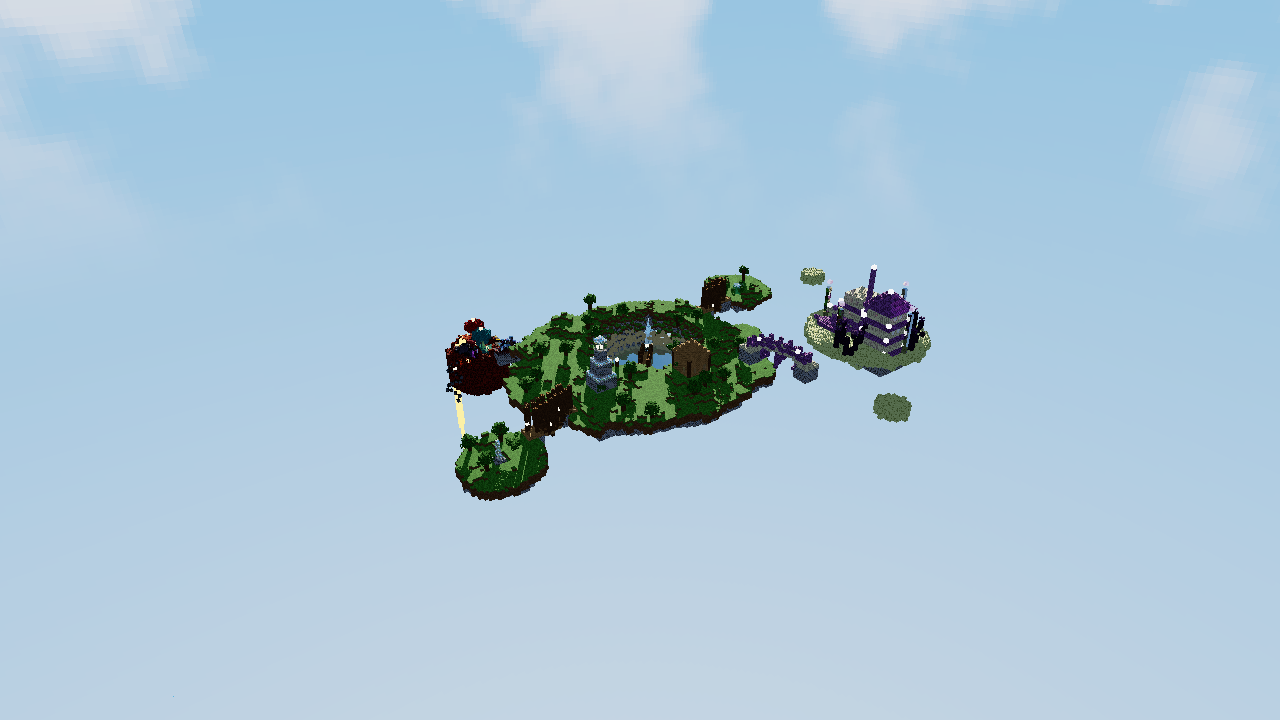
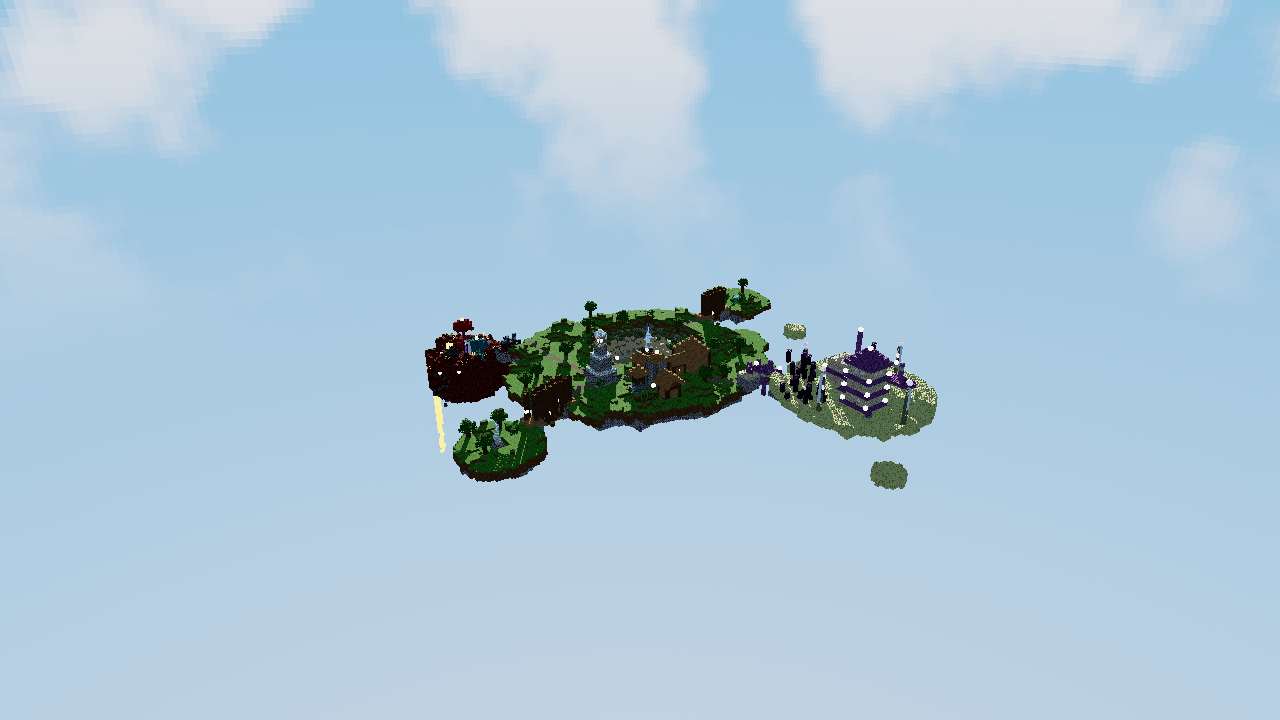
feat: recalcular el guion de camara y agregar el tramo del pueblo
Recalcula por completo el guion de --record (src/record.rs::timeline) tras
mover/agrandar el End y el Nether en la parte 1: g2/h1 (Nether de cerca) y
h2/i1 (End de cerca) tenian la camara metida en el terreno con los valores
viejos de dist_scale/pitch, verificado renderizando esos cuadros clave antes
y despues del ajuste.

Agrega un tramo nuevo "a2: pueblo" (~6s, entre la vista general y el
acercamiento al faro) que centra la camara en el pueblo nuevo de la parte 2.
Para eso, CenterTarget::Village se suma al enum existente (junto a Main/
Nether/End/Monolith) y su posicion de mundo se enhebra desde
structures::build_lighthouse_scene hasta record::Centers, igual que ya
pasaba con el monolito. Guion final: 79s (18 keyframes), dentro del rango
pedido de 75-80s. Verificado sin saltos de camara con --dump-timeline y
visualmente con una pasada completa de frames_test/ (640x360, 15fps, 1186
cuadros, borrando los cuadros viejos primero).

Rendimiento (--bench, 1280x720): 156.2ms/frame, ~12% MAS RAPIDO que el
cierre de la sesion anterior (178.2ms) pese a agregar el pueblo completo --
menos arboles base en la principal y el End mucho mas cerca en altura de la
principal (antes +32, ahora +9) le ahorran trabajo al DDA. No hizo falta
optimizacion adicional (detalle en BENCHMARK.md, no versionado).

Actualiza README.md (tabla de materiales a 46, seccion "Pueblo", galeria,
guion sugerido, numeros de rendimiento) y record.md (duracion/bitrate). Las
[…]

diff --git a/src/record.rs b/src/record.rs
@@ -22,6 +22,7 @@ pub enum CenterTarget {
     Nether,
     End,
     Monolith,
+    Village,
 }
 
 /// Puntos de mundo donde puede centrarse la orbita, resueltos por el llamador
@@ -32,6 +33,7 @@ pub struct Centers {
     pub nether: Vec3,
     pub end: Vec3,
     pub monolith: Vec3,
+    pub village: Vec3,
 }
 
 pub struct Keyframe {
@@ -79,11 +81,13 @@ fn resolve_center(centers: Centers, target: CenterTarget) -> Vec3 {
         CenterTarget::Nether => centers.nether,
         CenterTarget::End => centers.end,
         CenterTarget::Monolith => centers.monolith,
+        CenterTarget::Village => centers.village,
     }
 }
 
 const CAP_GENERAL: &str = "VISTA GENERAL - DIORAMA DE 5 ISLAS";
 const CAP_MAIN: &str = "ISLA PRINCIPAL: FARO Y CASITA";
+const CAP_VILLAGE: &str = "PUEBLO: CASAS, TORRE, PARCELAS Y POZO";
 const CAP_LAKE: &str = "LAGO: REFRACCION IOR 1.33 Y REFLEJO FRESNEL";
 const CAP_MONOLITH: &str = "REFLEJO EN EL MONOLITO - IRON BLOCK Y CIELO";
 const CAP_NM_OFF: &str = "NORMAL MAPS OFF - LUZ RASANTE EN STONE BRICKS";
@@ -96,58 +100,69 @@ const CAP_SEED_B: &str = "REGENERACION - SEMILLA B";
 const CAP_SEED_C: &str = "REGENERACION - SEMILLA C";
 const CAP_FINAL: &str = "DIORAMA PROCEDURAL COMPLETO";
 
-/// Guion de 73s, un keyframe por limite de tramo (17 en total, ver
-/// comentarios inline con los segundos exactos que pidio el usuario). Cada
-/// tramo mueve como maximo un par de cosas a la vez (camara, o dia/noche, o
-/// normal maps, o semilla) para que quede claro en pantalla que esta
-/// cambiando; la unica excepcion son las traslaciones largas entre islas
-/// (f, g1, h1), donde camara + dia/noche + centro cambian juntos porque asi
-/// se ve como un solo movimiento de camara continuo, no como una serie de
-/// cortes.
+/// Guion de 79s, un keyframe por limite de tramo (18 en total, ver
+/// comentarios inline con los segundos exactos). Cada tramo mueve como
+/// maximo un par de cosas a la vez (camara, o dia/noche, o normal maps, o
+/// semilla) para que quede claro en pantalla que esta cambiando; la unica
+/// excepcion son las traslaciones largas entre islas/el pueblo (a2, f, g1,
+/// h1), donde camara + centro (+ a veces dia/noche) cambian juntos porque
+/// asi se ve como un solo movimiento de camara continuo, no como una serie
+/// de cortes.
+///
+/// Recalculado despues de mover/agrandar el End y el Nether (ver
+/// `structures.rs`): el End ahora flota apenas mas arriba que la principal
+/// (antes offset.y +32, ahora +9) y mas cerca (gap 10 en vez de 16), y tanto
+/// el Nether (radio 11->15) como el End (radio 16->22) crecieron. Los tramos
+/// g2/h1/h2/i1 (los que miran de cerca esas dos islas) necesitan mas
+/// distancia y menos pitch que antes para no terminar con la camara metida
+/// en el terreno -- afinado a mano con `--render --center nether|end` a
+/// varias combinaciones hasta que el encuadre mostraba la isla entera.
 pub fn timeline(seed_a: u32, seed_b: u32, seed_c: u32) -> Vec<Keyframe> {
     vec![
         // a) 0-8s: vista general de dia, rotando.
         Keyframe { t: 0.0, yaw_deg: 0.0, pitch_deg: 22.0, dist_scale: 6.5, center: CenterTarget::Main, night: 0.0, normalmaps: 1.0, seed_offset: seed_a, segment: "a: general", caption: CAP_GENERAL },
-        // b) 8-15s (7s): zoom a la isla principal (faro/casita), llegando al lago.
-        Keyframe { t: 8.0, yaw_deg: 70.0, pitch_deg: 20.0, dist_scale: 6.5, center: CenterTarget::Main, night: 0.0, normalmaps: 1.0, seed_offset: seed_a, segment: "b: principal", caption: CAP_MAIN },
-        // c) 15-21s (6s): orbita lenta de cerca sobre el lago.
-        Keyframe { t: 15.0, yaw_deg: 110.0, pitch_deg: 14.0, dist_scale: 1.0, center: CenterTarget::Main, night: 0.0, normalmaps: 1.0, seed_offset: seed_a, segment: "c: lago", caption: CAP_LAKE },
-        // d) 21-25s (4s): vuelo hasta el monolito y de vuelta hacia el faro.
-        Keyframe { t: 21.0, yaw_deg: 150.0, pitch_deg: 14.0, dist_scale: 1.0, center: CenterTarget::Main, night: 0.0, normalmaps: 1.0, seed_offset: seed_a, segment: "d: monolito (ida)", caption: CAP_MONOLITH },
-        Keyframe { t: 23.0, yaw_deg: 175.0, pitch_deg: 16.0, dist_scale: 0.55, center: CenterTarget::Monolith, night: 0.0, normalmaps: 1.0, seed_offset: seed_a, segment: "d: monolito (vuelta)", caption: CAP_MONOLITH },
-        // e) 25-32s: camara TOTALMENTE QUIETA (mismo yaw/pitch/dist/centro en
+        // a2) 8-14s (6s, NUEVO): recorrido del pueblo -- casas, parcelas,
+        // pozo y caminos -- entre la vista general y el acercamiento al faro.
+        Keyframe { t: 8.0, yaw_deg: 100.0, pitch_deg: 25.0, dist_scale: 0.9, center: CenterTarget::Village, night: 0.0, normalmaps: 1.0, seed_offset: seed_a, segment: "a2: pueblo", caption: CAP_VILLAGE },
+        // b) 14-21s (7s): zoom a la isla principal (faro/casita), llegando al lago.
+        Keyframe { t: 14.0, yaw_deg: 70.0, pitch_deg: 20.0, dist_scale: 6.5, center: CenterTarget::Main, night: 0.0, normalmaps: 1.0, seed_offset: seed_a, segment: "b: principal", caption: CAP_MAIN },
+        // c) 21-27s (6s): orbita lenta de cerca sobre el lago.
+        Keyframe { t: 21.0, yaw_deg: 110.0, pitch_deg: 14.0, dist_scale: 1.0, center: CenterTarget::Main, night: 0.0, normalmaps: 1.0, seed_offset: seed_a, segment: "c: lago", caption: CAP_LAKE },
+        // d) 27-31s (4s): vuelo hasta el monolito y de vuelta hacia el faro.
+        Keyframe { t: 27.0, yaw_deg: 150.0, pitch_deg: 14.0, dist_scale: 1.0, center: CenterTarget::Main, night: 0.0, normalmaps: 1.0, seed_offset: seed_a, segment: "d: monolito (ida)", caption: CAP_MONOLITH },
+        Keyframe { t: 29.0, yaw_deg: 175.0, pitch_deg: 16.0, dist_scale: 0.55, center: CenterTarget::Monolith, night: 0.0, normalmaps: 1.0, seed_offset: seed_a, segment: "d: monolito (vuelta)", caption: CAP_MONOLITH },
+        // e) 31-38s: camara TOTALMENTE QUIETA (mismo yaw/pitch/dist/centro en
         // los 4 keyframes que siguen), solo cambia el blend de normal maps.
-        Keyframe { t: 25.0, yaw_deg: 200.0, pitch_deg: 10.0, dist_scale: 0.85, center: CenterTarget::Main, night: 0.0, normalmaps: 0.0, seed_offset: seed_a, segment: "e: nm off (quieto)", caption: CAP_NM_OFF },
-        Keyframe { t: 28.0, yaw_deg: 200.0, pitch_deg: 10.0, dist_scale: 0.85, center: CenterTarget::Main, night: 0.0, normalmaps: 0.0, seed_offset: seed_a, segment: "e: nm fundido (quieto)", caption: CAP_NM_FADE },
-        Keyframe { t: 29.0, yaw_deg: 200.0, pitch_deg: 10.0, dist_scale: 0.85, center: CenterTarget::Main, night: 0.0, normalmaps: 1.0, seed_offset: seed_a, segment: "e: nm on (quieto)", caption: CAP_NM_ON },
-        // f) 32-38s (6s): noche, vista general (se aleja y cae la noche).
-        Keyframe { t: 32.0, yaw_deg: 200.0, pitch_deg: 10.0, dist_scale: 0.85, center: CenterTarget::Main, night: 0.0, normalmaps: 1.0, seed_offset: seed_a, segment: "f: a noche general", caption: CAP_NIGHT },
-        // g) 38-48s (10s): Nether -- g1 acercandose (4s), g2 de cerca (6s).
+        Keyframe { t: 31.0, yaw_deg: 200.0, pitch_deg: 10.0, dist_scale: 0.85, center: CenterTarget::Main, night: 0.0, normalmaps: 0.0, seed_offset: seed_a, segment: "e: nm off (quieto)", caption: CAP_NM_OFF },
+        Keyframe { t: 34.0, yaw_deg: 200.0, pitch_deg: 10.0, dist_scale: 0.85, center: CenterTarget::Main, night: 0.0, normalmaps: 0.0, seed_offset: seed_a, segment: "e: nm fundido (quieto)", caption: CAP_NM_FADE },
+        Keyframe { t: 35.0, yaw_deg: 200.0, pitch_deg: 10.0, dist_scale: 0.85, center: CenterTarget::Main, night: 0.0, normalmaps: 1.0, seed_offset: seed_a, segment: "e: nm on (quieto)", caption: CAP_NM_ON },
+        // f) 38-44s (6s): noche, vista general (se aleja y cae la noche).
+        Keyframe { t: 38.0, yaw_deg: 200.0, pitch_deg: 10.0, dist_scale: 0.85, center: CenterTarget::Main, night: 0.0, normalmaps: 1.0, seed_offset: seed_a, segment: "f: a noche general", caption: CAP_NIGHT },
+        // g) 44-54s (10s): Nether -- g1 acercandose (4s), g2 de cerca (6s).
         // Nota sobre `dist_scale` de aca en adelante: se multiplica por el
         // radio de la isla PRINCIPAL (42), no por el de la isla que mira la
-        // camara -- Nether (radio 11, a ~61 del centro principal) y End
-        // (radio 16, a ~74) son mucho mas chicas Y ademas tienen relieve
-        // marcado (el ridged noise del Nether sube/baja ~10 bloques sobre
-        // su propia base, las torres del End suben otros ~20). Un pitch
-        // bajo (el que usa el lago, isla mucho mas playa) deja al ojo de la
-        // camara CASI A LA MISMA altura que esos picos/torres -- de ahi el
-        // cuadro con la camara metida dentro del terreno. Pitch alto (~45)
-        // le da altura de sobra sin alejarse tanto como para perder el
-        // detalle, y la distancia se mantiene bien por debajo de la que
-        // haria falta para volver a rozar la isla principal por el otro lado.
-        Keyframe { t: 38.0, yaw_deg: 230.0, pitch_deg: 18.0, dist_scale: 6.0, center: CenterTarget::Main, night: 1.0, normalmaps: 1.0, seed_offset: seed_a, segment: "g1: hacia el nether", caption: CAP_NETHER },
-        Keyframe { t: 42.0, yaw_deg: 250.0, pitch_deg: 38.0, dist_scale: 0.62, center: CenterTarget::Nether, night: 1.0, normalmaps: 1.0, seed_offset: seed_a, segment: "g2: nether de cerca", caption: CAP_NETHER },
-        // h) 48-58s (10s): End -- h1 acercandose (4s), h2 de cerca (6s).
-        Keyframe { t: 48.0, yaw_deg: 290.0, pitch_deg: 38.0, dist_scale: 0.62, center: CenterTarget::Nether, night: 1.0, normalmaps: 1.0, seed_offset: seed_a, segment: "h1: hacia el end", caption: CAP_END },
-        Keyframe { t: 52.0, yaw_deg: 320.0, pitch_deg: 42.0, dist_scale: 0.70, center: CenterTarget::End, night: 1.0, normalmaps: 1.0, seed_offset: seed_a, segment: "h2: end de cerca", caption: CAP_END },
-        // i) 58-68s: regeneracion -- 5s con la semilla B, 5s con la semilla C
+        // camara -- Nether (radio 15, a ~65 del centro principal) y End
+        // (radio 22, a ~74) son mas chicas Y ademas tienen relieve marcado
+        // (el ridged noise del Nether sube/baja ~10 bloques sobre su propia
+        // base, las torres del End suben otros ~20). Un pitch bajo (el que
+        // usa el lago, isla mucho mas playa) deja al ojo de la camara CASI A
+        // LA MISMA altura que esos picos/torres -- de ahi el cuadro con la
+        // camara metida dentro del terreno. Pitch ~32-35 con distancia
+        // bastante mayor que el radio de esa isla le da altura y espacio de
+        // sobra sin alejarse tanto como para perder el detalle.
+        Keyframe { t: 44.0, yaw_deg: 230.0, pitch_deg: 18.0, dist_scale: 6.0, center: CenterTarget::Main, night: 1.0, normalmaps: 1.0, seed_offset: seed_a, segment: "g1: hacia el nether", caption: CAP_NETHER },
+        Keyframe { t: 48.0, yaw_deg: 250.0, pitch_deg: 32.0, dist_scale: 1.0, center: CenterTarget::Nether, night: 1.0, normalmaps: 1.0, seed_offset: seed_a, segment: "g2: nether de cerca", caption: CAP_NETHER },
+        // h) 54-64s (10s): End -- h1 acercandose (4s), h2 de cerca (6s).
+        Keyframe { t: 54.0, yaw_deg: 290.0, pitch_deg: 32.0, dist_scale: 1.0, center: CenterTarget::Nether, night: 1.0, normalmaps: 1.0, seed_offset: seed_a, segment: "h1: hacia el end", caption: CAP_END },
+        Keyframe { t: 58.0, yaw_deg: 320.0, pitch_deg: 35.0, dist_scale: 1.1, center: CenterTarget::End, night: 1.0, normalmaps: 1.0, seed_offset: seed_a, segment: "h2: end de cerca", caption: CAP_END },
+        // i) 64-74s: regeneracion -- 5s con la semilla B, 5s con la semilla C
         // (el corte de semilla es instantaneo, la camara sigue moviendose
         // parejo de la vista del End a la vista general de ambos lados del corte).
-        Keyframe { t: 58.0, yaw_deg: 350.0, pitch_deg: 42.0, dist_scale: 0.70, center: CenterTarget::End, night: 1.0, normalmaps: 1.0, seed_offset: seed_b, segment: "i1: semilla B", caption: CAP_SEED_B },
-        Keyframe { t: 63.0, yaw_deg: 380.0, pitch_deg: 22.0, dist_scale: 6.5, center: CenterTarget::Main, night: 0.0, normalmaps: 1.0, seed_offset: seed_c, segment: "i2: semilla C", caption: CAP_SEED_C },
-        // j) 68-73s (5s): toma final alejandose.
-        Keyframe { t: 68.0, yaw_deg: 420.0, pitch_deg: 24.0, dist_scale: 7.0, center: CenterTarget::Main, night: 0.0, normalmaps: 1.0, seed_offset: seed_c, segment: "j: final", caption: CAP_FINAL },
-        Keyframe { t: 73.0, yaw_deg: 450.0, pitch_deg: 26.0, dist_scale: 8.5, center: CenterTarget::Main, night: 0.0, normalmaps: 1.0, seed_offset: seed_c, segment: "j: final", caption: CAP_FINAL },
+        Keyframe { t: 64.0, yaw_deg: 350.0, pitch_deg: 35.0, dist_scale: 1.1, center: CenterTarget::End, night: 1.0, normalmaps: 1.0, seed_offset: seed_b, segment: "i1: semilla B", caption: CAP_SEED_B },
+        Keyframe { t: 69.0, yaw_deg: 380.0, pitch_deg: 22.0, dist_scale: 6.5, center: CenterTarget::Main, night: 0.0, normalmaps: 1.0, seed_offset: seed_c, segment: "i2: semilla C", caption: CAP_SEED_C },
+        // j) 74-79s (5s): toma final alejandose.
+        Keyframe { t: 74.0, yaw_deg: 420.0, pitch_deg: 24.0, dist_scale: 7.0, center: CenterTarget::Main, night: 0.0, normalmaps: 1.0, seed_offset: seed_c, segment: "j: final", caption: CAP_FINAL },
+        Keyframe { t: 79.0, yaw_deg: 450.0, pitch_deg: 26.0, dist_scale: 8.5, center: CenterTarget::Main, night: 0.0, normalmaps: 1.0, seed_offset: seed_c, segment: "j: final", caption: CAP_FINAL },
     ]
 }
 

diff --git a/src/main.rs b/src/main.rs
@@ -50,16 +50,17 @@ struct WorldData {
     nether_center: Vec3,
     end_center: Vec3,
     monolith_center: Vec3,
+    village_center: Vec3,
     gen_ms: f64,
 }
 
 fn build_world_data(seed: u32) -> WorldData {
     let t0 = std::time::Instant::now();
-    let SceneIslands { islands, main_center, main_radius, nether_center, end_center, monolith_center } = build_lighthouse_scene(seed);
+    let SceneIslands { islands, main_center, main_radius, nether_center, end_center, monolith_center, village_center } = build_lighthouse_scene(seed);
     let materials = material::build_material_table(seed);
     let lights = build_light_grid(&islands, &materials, 8.0);
     let gen_ms = t0.elapsed().as_secs_f64() * 1000.0;
-    WorldData { islands, materials, lights, main_center, main_radius, nether_center, end_center, monolith_center, gen_ms }
+    WorldData { islands, materials, lights, main_center, main_radius, nether_center, end_center, monolith_center, village_center, gen_ms }
 }
 
 /// La distancia maxima de zoom tiene que alcanzar para que las 5 islas
@@ -71,6 +72,7 @@ fn build_camera(args: &Args, wd: &WorldData) -> Camera {
         "nether" => wd.nether_center,
         "end" => wd.end_center,
         "monolith" => wd.monolith_center,
+        "village" => wd.village_center,
         _ => wd.main_center,
     };
     Camera::new(center, args.yaw, args.pitch, args.dist, wd.main_radius * 0.6, wd.main_radius * 9.0, 50.0)
@@ -216,7 +218,7 @@ fn render_record_frame(ctx: &RecordCtx, night_blend: f32, normalmaps_blend: f32,
 }
 
 fn centers_of(wd: &WorldData) -> record::Centers {
-    record::Centers { main: wd.main_center, nether: wd.nether_center, end: wd.end_center, monolith: wd.monolith_center }
+    record::Centers { main: wd.main_center, nether: wd.nether_center, end: wd.end_center, monolith: wd.monolith_center, village: wd.village_center }
 }
 
 /// `duration*fps` cuadros no alcanzan a incluir un cuadro exactamente EN

diff --git a/src/structures.rs b/src/structures.rs
@@ -1279,6 +1279,9 @@ pub struct SceneIslands {
     /// Isla satelite del monolito de iron_block (para encuadrarlo de cerca
     /// en `--record`, ver `record.rs`).
     pub monolith_center: Vec3,
+    /// Centro del pueblo en la isla principal (para encuadrarlo de cerca en
+    /// `--record`, igual que el monolito).
+    pub village_center: Vec3,
 }
 
 /// Construye la isla principal (el faro, el lago, la casita) y sus dos
@@ -1325,6 +1328,8 @@ pub fn build_lighthouse_scene(seed: u32) -> SceneIslands {
     // torre (centro): 3 casas y 2 parcelas intercaladas cada 60 grados, el
     // pozo mas cerca del centro en el sexto hueco.
     let village_center = polar(cx, cz, 200.0, r * 0.48);
+    let village_top_y = main.heightmap.top_at(village_center.0, village_center.1).unwrap_or(main.params.top_y);
+    let village_center_world = islands[main.index].to_world_point(Vec3::new(village_center.0 as f32, village_top_y as f32, village_center.1 as f32));
     clear_trees_near(&mut islands[main.index].world, village_center.0, village_center.1, 13);
 
     // Offsets en cartesianas (no polares): con estructuras cuadradas, dos
@@ -1520,5 +1525,5 @@ pub fn build_lighthouse_scene(seed: u32) -> SceneIslands {
     // 2-3 mini-islas de end_stone flotando alrededor de la isla principal del End.
     build_mini_end_islands(&mut islands, end_center_world, er, eseed);
 
-    SceneIslands { islands, main_center: main_center_world, main_radius: r, nether_center: nether_center_world, end_center: end_center_world, monolith_center: monolith_center_world }
+    SceneIslands { islands, main_center: main_center_world, main_radius: r, nether_center: nether_center_world, end_center: end_center_world, monolith_center: monolith_center_world, village_center: village_center_world }
 }

diff --git a/README.md b/README.md
@@ -22,10 +22,11 @@ Rust desde cero (sin librerias externas para la logica: matematica,
 texturas, ruido, PRNG, paralelismo y raytracing son todo codigo propio).
 Cinco islas flotantes generadas proceduralmente, cada una con su propio
 perfil de terreno: la isla principal (faro, lago con cascada, muelle,
-casita, dos islas satelite), una isla compacta del Nether (arboles hongo
-carmesi/distorsionado, formacion de blackstone con lava, fuegos, portal) y
-una isla del End con una ciudad de torres de purpur, unidas por puentes de
-verdad (tablero ancho, barandas, arcos o cables, linternas).
+casita, un PUEBLO con 3 casas/torre-capilla/pozo/parcelas de cultivo, dos
+islas satelite), una isla del Nether (arboles hongo carmesi/distorsionado,
+formacion de blackstone con lava, fuegos, portal) y una isla del End -- baja
+y cerca de la principal, con una ciudad de torres de purpur -- unidas por
+puentes de verdad (tablero ancho, barandas, arcos o cables, linternas).
 
 ![Vista general de las 5 islas](renders/before_after/p6_final_general_day.png)
 
@@ -80,7 +81,7 @@ normal maps on/off y el tiempo de generacion del terreno.
 ## Materiales
 
 Cada material tiene su propia textura (16x16, generada por codigo si no hay
-un `.bmp` en `assets/textures/`) y sus propios parametros de shading. 39 en
+un `.bmp` en `assets/textures/`) y sus propios parametros de shading. 46 en
 total, organizados por donde viven en la escena.
 
 ### Base (isla principal y satelites)
@@ -137,11 +138,26 @@ total, organizados por donde viven en la escena.
 | Chorus plant (tallo) | solido con nudos | morado oscuro | 0.04 / 6 | 0 | 0 | 1.0 | - |
 | Magenta glass | marco claro, centro casi transparente | magenta | 0.6 / 120 | 0.85 | 0.08 | 1.5 | - |
 
+### Pueblo (isla principal)
+
+| Material | Textura | Albedo | Specular (coef/exp) | Transparencia | Reflectividad | IOR | Emision |
+|---|---|---|---|---|---|---|---|
+| Cobblestone | piedras irregulares con mortero, normal map | gris | 0.08 / 12 | 0 | 0.02 | 1.0 | - |
+| Stone (liso) | uniforme, normal map suave | gris claro | 0.12 / 18 | 0 | 0.04 | 1.0 | - |
+| Farmland | tierra removida con surcos | marron oscuro | 0.02 / 4 | 0 | 0 | 1.0 | - |
+| Dirt path | grisaceo apisonado, a proposito distinto del marron de oak_planks | gris-tostado | 0.03 / 6 | 0 | 0 | 1.0 | - |
+| Crops | tallos con alpha cutout, puntas doradas | verde/dorado | 0.03 / 6 | 0 | 0 | 1.0 | - |
+| Lantern | marco oscuro, centro calido opaco | negro/amarillo calido | 0.15 / 20 | 0 | 0 | 1.0 | (1.0, 0.72, 0.38) x 1.9 |
+
+La cerca de las parcelas reutiliza `oak_log` en postes delgados en vez de
+un material nuevo.
+
 Normal map real (derivado por Sobel de la propia textura, o cargado desde
 `assets/textures/<nombre>_n.bmp` si existe) en: `stone_bricks`,
 `oak_planks`, `oak_log`, `iron_block`, `netherrack`, `nether_bricks`,
 `crimson_stem`, `warped_stem`, `nether_wart_block`, `warped_wart_block`,
-`blackstone`, `end_stone`, `end_stone_bricks`, `purpur`, `purpur_pillar`.
+`blackstone`, `end_stone`, `end_stone_bricks`, `purpur`, `purpur_pillar`,
+`cobblestone`, `stone`.
 El `portal` tiene un normal map propio generado aparte (no derivado del
 albedo): un remolino via atan2/seno/coseno, para que la refraccion se vea
 distorsionada en vez de plana.
@@ -212,27 +228,30 @@ End + todos sus puentes/caminos y mini-islas):
 
 | Resolucion | ms/frame | FPS equivalente |
 |---|---|---|
-| 640x360 (resolucion del pase "en movimiento" a calidad media) | 49.5 | ~20 |
-| 1280x720 | 178.2 | ~5.6 |
+| 640x360 (resolucion del pase "en movimiento" a calidad media) | 39.6 | ~25 |
+| 1280x720 | 156.2 | ~6.4 |
 
-Rotando a calidad media la ventana corre a resolucion reducida (~20 FPS
+Rotando a calidad media la ventana corre a resolucion reducida (~25 FPS
 equivalente, fluido); el pase de resolucion completa es ahora PROGRESIVO
 (ver "Refinamiento progresivo" arriba), asi que nunca bloquea de una sola
-vez aunque tarde varios cientos de ms en total. El costo subio un poco
-respecto a partes anteriores (mas islas: Nether y End compactas pero con
-mucho contenido nuevo, mas mini-islas de puentes/descanso) pero se
-mantiene fluido para rotar; no hizo falta optimizacion adicional (limite
-de luces por punto, profundidad de recursion, early exits ya estaban
-puestos desde antes). Detalle completo, incluido el desglose pasada por
-pasada del refinamiento progresivo, en `BENCHMARK.md`.
+vez aunque tarde varios cientos de ms en total. A pesar de agregar el
+pueblo completo (casas, torre, parcelas, caminos) y agrandar el End/Nether,
+el costo BAJO ~12% respecto al cierre anterior: menos arboles base en la
+principal y el End mucho mas cerca en altura de la principal (antes flotaba
+32 bloques arriba, ahora 9) le ahorran trabajo al DDA. No hizo falta
+optimizacion adicional (limite de luces por punto, profundidad de
+recursion, early exits ya estaban puestos desde antes). Detalle completo,
+incluido el desglose pasada por pasada del refinamiento progresivo, en
+`BENCHMARK.md`.
 
 ## Galeria
 
 | De dia | De noche |
 |---|---|
 | ![Vista general de dia](renders/before_after/p6_final_general_day.png) | ![Vista general de noche](renders/before_after/p6_final_general_night.png) |
-| ![Puentes de verdad](renders/before_after/p6_final_bridges.png) | ![Nether de noche](renders/before_after/p6_final_nether_night.png) |
+| ![Puentes de verdad y el pueblo](renders/before_after/p6_final_bridges.png) | ![Nether de noche](renders/before_after/p6_final_nether_night.png) |
 | ![Lago azul-turquesa con orilla](renders/before_after/p6_final_lake.png) | ![Ciudad de torres del End](renders/before_after/p6_final_end_city.png) |
+| ![El pueblo de dia](renders/before_after/part5_village_day.png) | ![El pueblo de noche, faroles encendidos](renders/before_after/part5_village_night.png) |
 
 ## Guion sugerido para el video
 
@@ -251,11 +270,19 @@ pasada del refinamiento progresivo, en `BENCHMARK.md`.
    central, escaleras diagonales, las dos torres secundarias con
    ventanas de magenta_glass), el barco de purpur y los bosquecitos de
    chorus.
-6. Tecla `4` para volver a la principal: acercarse al faro (glowstone a
-   traves del vidrio) y al lago (agua azul-turquesa con reflejo del cielo,
-   orilla de arena visible, cascada por el borde).
+6. Tecla `4` para volver a la principal: recorrer el pueblo (casas, la
+   torre-capilla, el pozo, las parcelas con canal de agua y crops, los
+   caminos), acercarse al faro (glowstone a traves del vidrio) y al lago
+   (agua azul-turquesa con reflejo del cielo, orilla de arena visible,
+   cascada por el borde).
 7. Alternar normal maps (`N`) de cerca sobre nether_bricks o stone_bricks
    para mostrar la diferencia con luz rasante.
 8. Regenerar el archipielago (`G`) un par de veces para mostrar que las 5
-   islas, sus puentes y todas sus estructuras se reconstruyen con
-   cualquier semilla.
+   islas, sus puentes, el pueblo y todas sus estructuras se reconstruyen
+   con cualquier semilla.
+
+El video grabado con `--record` (ver `record.md`) sigue este mismo recorrido
+como guion fijo de camara (`src/record.rs::timeline`, 79s): vista general,
+un tramo dedicado al pueblo (~6s, entre la vista general y el acercamiento
+al faro), faro/lago, monolito, normal maps on/off, noche, Nether de cerca,
+End de cerca, y regeneracion con 2 semillas nuevas antes de la toma final.

diff --git a/record.md b/record.md
@@ -33,7 +33,7 @@ cargo run --release -- --record frames/ --width 1280 --height 720 --fps 30 --qua
   faltan), en formato `h:mm:ss`.
 - Reanudable: si un PNG ya existe lo saltea sin volver a renderizarlo (podes
   cortar con Ctrl+C y correr el mismo comando de nuevo).
-- Duracion total del guion: 73s. A 30fps son 2191 cuadros.
+- Duracion total del guion: 79s. A 30fps son 2371 cuadros.
 
 ## Juntar los cuadros en un video (ffmpeg)
 
@@ -45,15 +45,17 @@ ffmpeg -framerate 30 -i frames/frame_%05d.png -c:v libx264 -pix_fmt yuv420p -crf
 
 ### 720p para GitHub, menos de 10 MB (dos pasadas, PowerShell en Windows)
 
-Bitrate objetivo: ~1000 kbps de video (sin audio) para 73s da
-`1000 kbps * 73s / 8 ~= 9.1 MB`, con margen bajo el limite de 10 MB de
-GitHub. Dos pasadas (mejor reparto de bits que una sola) con `-preset slow`.
-La primera pasada no necesita archivo de salida real -- en PowerShell/CMD el
-dispositivo nulo de Windows es `NUL` (no `/dev/null`):
+Bitrate objetivo: ~900 kbps de video (sin audio) para 79s da
+`900 kbps * 79s / 8 ~= 8.9 MB`, con margen bajo el limite de 10 MB de
+GitHub (con el tramo del pueblo nuevo, 79s en vez de 73s, hay menos margen
+que antes -- de ahi bajar el bitrate de 1000k a 900k). Dos pasadas (mejor
+reparto de bits que una sola) con `-preset slow`. La primera pasada no
+necesita archivo de salida real -- en PowerShell/CMD el dispositivo nulo de
+Windows es `NUL` (no `/dev/null`):
 
 ```powershell
-ffmpeg -y -framerate 30 -i frames\frame_%05d.png -vf scale=1280:720 -c:v libx264 -preset slow -b:v 1000k -pass 1 -an -f mp4 NUL
-ffmpeg -framerate 30 -i frames\frame_%05d.png -vf scale=1280:720 -c:v libx264 -preset slow -b:v 1000k -pass 2 -an diorama_github.mp4
+ffmpeg -y -framerate 30 -i frames\frame_%05d.png -vf scale=1280:720 -c:v libx264 -preset slow -b:v 900k -pass 1 -an -f mp4 NUL
+ffmpeg -framerate 30 -i frames\frame_%05d.png -vf scale=1280:720 -c:v libx264 -preset slow -b:v 900k -pass 2 -an diorama_github.mp4
 ```
 
 (ffmpeg deja `ffmpeg2pass-0.log*` en el directorio actual, se puede borrar
